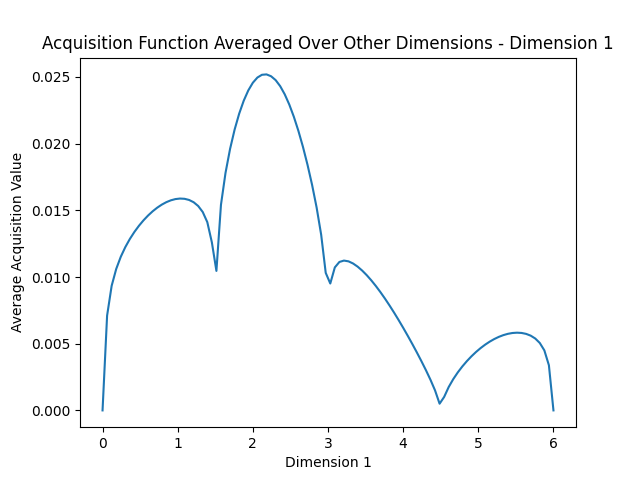
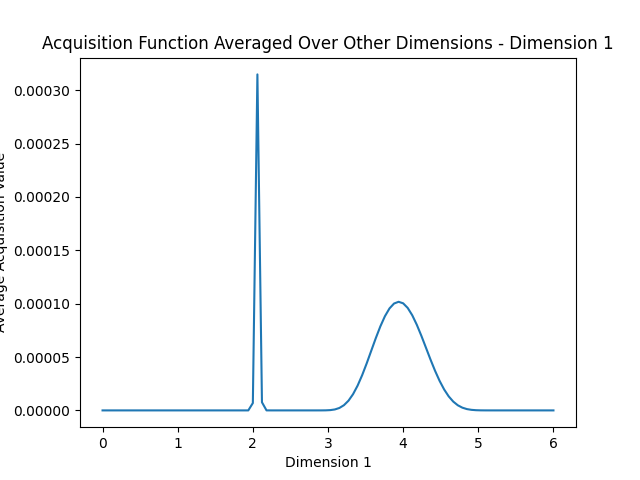
running multi input

diff --git a/smart_doe_bayesian_optimization/web_main.py b/smart_doe_bayesian_optimization/web_main.py
@@ -16,16 +16,16 @@ from utils.config_parser_utils import config_parser
 
 def setup_first_model():
 
-    xsinx = FunctionFactory
-
-    dataset_sum_sines = DatasetManager(dtype=torch.float64)
-
-    dataset_sum_sines.func_create_dataset(xsinx.sum_of_sines, num_datapoints=5, sampling_method="grid", noise_level=0, x1_range=(0,6), x2_range=(5,10), x3_range=(100,200))
-
     # xsinx = FunctionFactory
 
     # dataset_sum_sines = DatasetManager(dtype=torch.float64)
-    # dataset_sum_sines.func_create_dataset(xsinx.function_xsinx, num_datapoints=2, sampling_method="grid", noise_level=0, x1_range=(0,6))
+
+    # dataset_sum_sines.func_create_dataset(xsinx.sum_of_sines, num_datapoints=5, sampling_method="grid", noise_level=0, x1_range=(0,6), x2_range=(5,10), x3_range=(100,200))
+
+    xsinx = FunctionFactory
+
+    dataset_sum_sines = DatasetManager(dtype=torch.float64)
+    dataset_sum_sines.func_create_dataset(xsinx.function_xsinx, num_datapoints=2, sampling_method="grid", noise_level=0, x1_range=(0,6))
 
     dict = config_parser("BasicGP_RS\smart_doe_bayesian_optimization\config_files\config_simple_GP.json")
 
